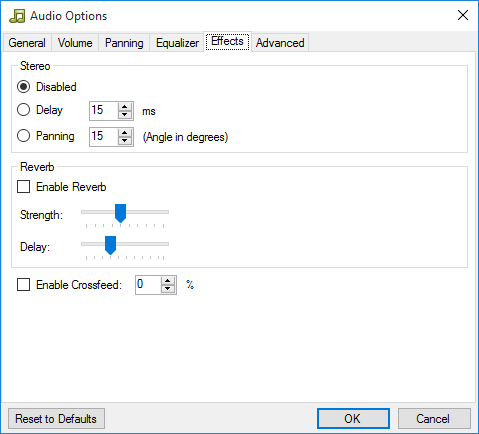
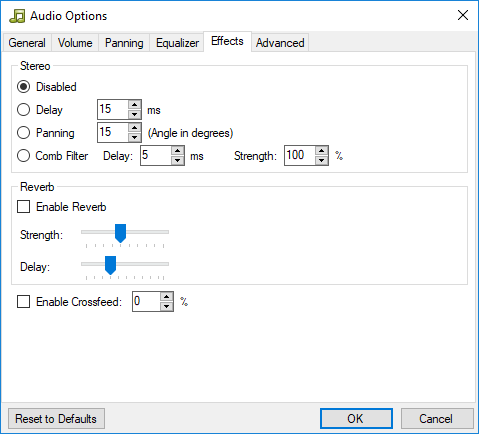
Docs: Updated documentation for 0.9.6

diff --git a/Docs/content/configuration/Preferences.md b/Docs/content/configuration/Preferences.md
@@ -75,7 +75,10 @@ Available shortcuts:
 * **FDS - Eject Disk**: Ejects the currently inserted disk
 * **VS - Insert Coin 1**: Inserts a coin in slot 1.
 * **VS - Insert Coin 2**: Inserts a coin in slot 2.
-* **VS - Service Button**: Press to go to the service menu (only in some VS games)
+* **VS - Insert Coin 3**: Inserts a coin in slot 1 of the second console (VS DualSystem only).
+* **VS - Insert Coin 4**: Inserts a coin in slot 2 of the second console (VS DualSystem only).
+* **VS - Service Button**: Press to activate the service button.
+* **VS - Service Button 2**: Press to activate the service button on the second console (VS DualSystem only).
 * **Input Barcode**: Inputs a barcode into the connected barcode reader device.
 * **Take Screenshot**: Takes a screenshot.
 * **Load Random Game**: Loads a random game from your game folder.
@@ -115,6 +118,41 @@ Available shortcuts:
 * **Load State from File**: Load the game's state from a user-specified file.
 * **Load Last Session**: Restores the game to the state it was the last time you stopped playing it.
 
+## FDS / VS System / NSF settings ##
+
+<div class="imgBox"><div>
+	<img src="/images/Preferences_Nsf.png" />
+	<span>FDS / VS / NSF settings</span>
+</div></div>
+
+### FDS Settings ###
+
+The FDS (Famicom Disk System) is a Famicom-specific add-on that allows games to be stored on special floppy disks. These options help simplify playing FDS games by allowing the emulation to fast-forward through load screens and automatically switch disk when needed.
+
+**Automatically insert disk 1 side A when starting FDS games**: By default, the FDS boots with no disk inserted in the drive.  This option makes it so the player does not need to manually insert disk 1, side A manually.
+
+**Automatically fast forward FDS games when disk or BIOS is loading**: FDS games contain a large number of load screens due to their data being stored on floppy drives.  Mesen needs to emulate this floppy drive's speed to ensure accurate emulation.  This option makes it so Mesen runs the emulation as fast as it can when a game is loading data from the disk, which greatly reduces the time spent on loading screens.
+
+**Automatically switch disks for FDS games**: FDS games are often split into multiple floppy disks, and each disk has 2 separate sides.  Due to this, FDS games often ask the player to change disk, or flip to the other side.  When this option is enabled, Mesen will attempt to detect when a game is asking for another disk and automatically insert it.
+
+### VS DualSystem Settings ###
+
+For VS DualSystem games, 2 separate consoles run at the same time, producing 2 different sets of audio and video. These options allow you to configure which audio/video streams you want to hear/see.
+
+**Show video for [...]**: Selects whether both screens should be shown, or just one of them.
+
+**Play audio for [...]**: Selects whether both audio streams should be played, or just one of them.
+
+
+### NSF Settings ###
+
+**Move to the next track after [x] milliseconds of silence**: If the currently playing track outputs no audio for over X milliseconds, the player will automatically move to the next track.  *Note: This only applies for `.nsf` files, not `.nsfe` files.*
+
+**Limit track run time to [x] seconds**: Once the current track has been playing for over X seconds, the player will automatically move to the next track.  *Note: This only applies for `.nsf` files, not `.nsfe` files.*
+
+**Enable APU IRQs for NSF files**: When enabled, APU IRQs will be allowed when NSF files are playing. Some NSF files do not properly disable APU IRQs in their initialization code, which will cause them to break if this option is enabled. *This option should not be enabled unless absolutely necessary.*
+
+
 ## Folders and File Associations ##
 
 <div class="imgBox"><div>
@@ -141,19 +179,13 @@ Available shortcuts:
 
 **Keep rewind data for the last [x] minutes**: The rewind feature in Mesen periodically takes save states and keeps them in memory to allow the emulator to rewind the game. These save states take a minimal amount of memory (roughly 1MB per minute). To limit the amount of memory that Mesen can use for rewind data, this configures the number of minutes that it is possible to rewind for.
 
-### FDS Settings ###
-
-The FDS (Famicom Disk System) is a Famicom-specific add-on that allows games to be stored on special floppy disks. These options help simplify playing FDS games by allowing the emulation to fast-forward through load screens and automatically switch disk when needed.
-
-**Automatically insert disk 1 side A when starting FDS games**: By default, the FDS boots with no disk inserted in the drive.  This option makes it so the player does not need to manually insert disk 1, side A manually.
-
-**Automatically fast forward FDS games when disk or BIOS is loading**: FDS games contain a large number of load screens due to their data being stored on floppy drives.  Mesen needs to emulate this floppy drive's speed to ensure accurate emulation.  This option makes it so Mesen runs the emulation as fast as it can when a game is loading data from the disk, which greatly reduces the time spent on loading screens.
-
-**Automatically switch disks for FDS games**: FDS games are often split into multiple floppy disks, and each disk has 2 separate sides.  Due to this, FDS games often ask the player to change disk, or flip to the other side.  When this option is enabled, Mesen will attempt to detect when a game is asking for another disk and automatically insert it.
-
-### UI Settings ###
+### Window Settings ###
 
 **Always display on top of other windows**: When enabled, Mesen's window will always be displayed above all other windows.
+
+**Do not allow the main window to be resized using the mouse**: When enabled, the main window can only be resized by changing the video scaling option.
+
+### UI Settings ###
 
 **Disable on-screen display (OSD)**: When enabled, all on-screen messages are disabled.
 

diff --git a/Docs/content/debugging/Debugger.md b/Docs/content/debugging/Debugger.md
@@ -292,10 +292,13 @@ For example, a mapper with 2x 8 KB + 1x 16 KB PRG banking is emulated as 4x 8 KB
 The `Show...` submenu contains a number of options to show/hide various elements on the UI.
 Specifically, the toolbar, CPU/PPU memory mappings, function/label lists, watch list, breakpoint list and the call stack window.
 
-Additionally, two special tooltip windows can be enabled here:
+### Tooltip Options ###
+
+A number of tooltip-related options are available here:
 
 * **Show Code Preview in Tooltips**: When enabled, label/address tooltips will now show a preview of the code at the target location.
 * **Show OP Code Info Tooltips**: When enabled, putting the mouse over an OP code will display a tooltip containing information about the OP code and which CPU flags are affected by it.
+* **Only show tooltips when Shift key is pressed**: When enabled, no tooltips will be shown unless the shift key is held down.
 
 ### Break Options ###
 
@@ -305,6 +308,7 @@ The `Break Options` submenu contains a number of options to configure under whic
 * **Break on unofficial opcodes**: Break the emulation whenever an unofficial opcode is about to execute.
 * **Break on BRK**: Break the emulation whenever a BRK instruction is about to execute.
 * **Break on CPU crash**: Break the emulation whenever an instruction that will cause the CPU to freeze is about to execute.
+* **Break on decayed OAM read**: Break whenever the code a read is performed on decayed OAM memory. **Note**: *This option is only available when the `Enable OAM RAM decay` option is enabled in the `Emulation Settings`.*
 * **Break on uninitialized memory read**: Break whenever the code reads from a memory address containing an uninitialized value. **Note**: *This option only works if the debugger has been opened since the last reset or power cycle.*
 * **Break when debugger is opened**: The emulation will break when you first open the debugger.
 * **Break on debugger focus**: Whenever the debugger's window gains focus (e.g by clicking on it), the emulation will break.
@@ -316,12 +320,19 @@ Additionally, you can configure whether or not the debugger window gets focused 
 
 These options configure which portions of the code is copied into the clipboard when copying code from the code window.
 
+### Layout Options ###
+
+* **Split View**: Displays 2 separate code windows side-by-side.
+* **Vertical Layout**: Moves the location of the label and function lists to improve space utilization on larger screens.
+ 
 ### Misc. Options ###
 
 * **Hide Pause Icon**: When enabled, the pause icon that is normally shown whenever execution is paused will be hidden.
 * **Draw Partial Frame**: When enabled, the emulator's main window will display the current partially-drawn frame instead of the last complete frame.
 * **Show previous frame behind current**: When enabled along with `Draw Partial Frame`, the previous frame's data will be shown behind the current frame.
-* **Refresh watch while running**: When enabled, the watch window will continuously refresh itself while the emulation is running (instead of only updating when the execution breaks)
+
+* **Keep active statement in the center**: When enabled, the code window will always put the current statement in the center whenever it updates (causing it to scroll on every step).  When disabled, the code window will only scroll the code when necessary.
+* **Refresh UI while running**: When enabled, the watch window and the CPU/PPU status will be updated continuously while the emulation is running (instead of only updating when the execution breaks)
 
 ## How To: Edit Code ##
 

diff --git a/Docs/content/debugging/DebuggerIntegration.md b/Docs/content/debugging/DebuggerIntegration.md
@@ -17,6 +17,13 @@ To import the .DBG file, use the **<kbd>File&rarr;Workspace&rarr;Import Labels</
 You can also enable the `Auto-load DBG/MLB files` to make Mesen load any .DBG file it finds next to the ROM whenever the debugger is opened or the power cycle button is used.  
 **Note:** For this option to work, the ROM file must have the same name as the DBG file (e.g `MyRom.nes` and `MyRom.dbg`) and be inside the same folder.
 
+### Source View ###
+
+When a .DBG file is loaded, 2 additional options appear in the code window's right-click menu:
+
+* **Switch to Source View**: This turns on `Source View` mode, which allows you to debug the game using the original code files, rather than the disassembly.  This can be used for both assembly and C projects.
+* **Show source code as comments**: When enabled, the debugger will show the original source code to the right of the disassembly, as comments.
+
 
 ## ASM6f ##
 
@@ -27,3 +34,8 @@ This fork contains 2 additional command line options that are useful when using 
 `-c` produces a .cdl (Code Data Logger) file which can be imported manually using the **<kbd>Tools&rarr;Code/Data Logger&rarr;Load CDL file</kbd>** command.   
 
 Additionally, you can use the `Auto-load DBG/MLB files` and `Auto-load CDL files` options in the **<kbd>File&rarr;Workspace</kbd>** menu to automatically load MLB and CDL files present in the same folder as the current ROM, with the same filename (e.g `MyRom.nes`, `MyRom.mlb`, `MyRom.cdl`). 
+
+
+## NESASM ##
+
+Mesen can also import the `.fns` symbol files that NESASM produces. However, due to limitations in the `.fns` format, these labels can only be reliably imported for games containing exactly 32kB of PRG ROM.  If you are creating a larger game, CC65/CA65 offers the best integration features at the moment.

diff --git a/Docs/content/configuration/Emulation.md b/Docs/content/configuration/Emulation.md
@@ -68,11 +68,11 @@ Overclocking can cause issues in some games. The safest way to overclock is to i
 	<span>Overclocking Options</span>
 </div></div>
 
-**Clock Rate Multiplier**: Use this to overclock or underclock the CPU -- this has the same effect as physically changing the clock speed on an actual NES.  Unless you enable the `Do not overclock APU` option below, the audio output will be affected by this.  ***This is not the recommended way to overclock the CPU.***
-
 **Additional scanlines before NMI**: Increases the number of scanlines in the PPU, *before* the NMI signal is triggered at the end of the visible frame. This effectively gives more time for games to perform calculations, which can reduce slowdowns in games. **This is the preferred option for overclocking.**
 
 **Additional scanlines after NMI**: Increases the number of scanlines in the PPU, *after* the NMI signal is triggered at the end of the visible frame. This effectively gives more time for games to perform calculations, which can reduce slowdowns in games. **This option is less compatible and should only be used if the `before NMI` variation does not work as expected.**
+
+**Clock Rate Multiplier**: Use this to overclock or underclock the CPU -- this has the same effect as physically changing the clock speed on an actual NES.  Unless you enable the `Do not overclock APU` option below, the audio output will be affected by this.  ***This is not the recommended way to overclock the CPU.***
 
 **Do not overclock APU**: When the `Clock Rate Multiplier` is not set to 100, the audio will be affected. When this option is enabled, the audio processor is not overclocked, which allows normal sound to be played despite the CPU being overclocked.
 

diff --git a/Docs/content/configuration/Audio.md b/Docs/content/configuration/Audio.md
@@ -19,7 +19,7 @@ chapter: false
 
 In addition, the **volume** and **panning** of each sound channel can be adjusted. For more control over the actual sound, the equalizer can be used to alter the relative strength of specific frequencies -- with work, this can be used to make the audio sound more like an actual NES would.
 
-A number of audio effects are available in the `Effects` tab -- the Stereo Delay effect, in particular, produces a relatively nice fake stereo effect.
+A number of audio effects are available in the `Effects` tab, including a few different fake stereo effects.
 
 <div class="clear"></div>
 
@@ -35,6 +35,8 @@ Unlike all the other options before it, the options in this section affect the w
 * **Mute ultrasonic frequencies on the triangle channel**: This option mutes the triangle channel under certain conditions, which prevents it from causing popping sounds.
 
 * **Reduce popping sounds on the DMC channel**: Similar to the previous option, but for the DMC channel -- this option prevents games from changing the output of the DMC channel too abruptly, which often causes popping sounds.
+
+* **Disable dynamic sample rate**: While a game is running, the video and audio typically slowly drift out of sync.  Mesen will automatically make adjustments to the audio sample rate while the game is running to keep them in sync. Disabling this option will typically cause sound issues such as crackling.
 
 * **Swap square channel duty cycles**: This option is to mimic some older NES clones that had incorrect sound output for both of the square channels.  It greatly alters the sound in some games, and shouldn't be enabled unless you want this behavior.
 

diff --git a/Docs/content/apireference/Changelog.md b/Docs/content/apireference/Changelog.md
@@ -17,12 +17,11 @@ chapter: false
 * The end address parameter for <kbd>[addMemoryCallback](/apireference/callbacks.html#addmemorycallback)</kbd> and <kbd>[removeMemoryCallback](/apireference/callbacks.html#removememorycallback)</kbd> is now optional.
 * The <kbd>[drawRectangle](/apireference/drawing.html#drawrectangle)</kbd> function now accepts negative height/width values.
 * Added a new *delay* parameter to  <kbd>[drawRectangle](/apireference/drawing.html#drawrectangle)</kbd>, <kbd>[drawLine](/apireference/drawing.html#drawline)</kbd>, <kbd>[drawString](/apireference/drawing.html#drawstring)</kbd> and  <kbd>[drawPixel](/apireference/drawing.html#drawpixel)</kbd>.
-* The <kbd>[endFrame](/apireference/enums.html#eventtype)</kbd> event now triggers on scanline 240 instead of scanline 241.
 
-### Bug Fixes ###
+### Breaking Changes ###
  
 * <kbd>[addMemoryCallback](/apireference/callbacks.html#addmemorycallback)</kbd> and <kbd>[removeMemoryCallback](/apireference/callbacks.html#removememorycallback)</kbd> no longer exclude the end address from the range.
-
+* The <kbd>[endFrame](/apireference/enums.html#eventtype)</kbd> event now triggers on scanline 240 instead of scanline 241.
 
 ## Changes between 0.9.4 and 0.9.5 ##
 

diff --git a/Docs/content/debugging/TextHooker.md b/Docs/content/debugging/TextHooker.md
@@ -1,0 +1,29 @@
+---
+title: Text Hooker
+weight: 16
+chapter: false
+---
+
+## Text Hooker ##
+
+<div class="imgBox"><div>
+	<img src="/images/TextHooker.png" />
+	<span>Text Hooker</span>
+</div></div>
+
+The text hooker's main window scans the current screen for recognized characters and outputs the equivalent text on the right.  
+
+For games that split the screen, you can use the `When emulation is running, show PPU data at scanline` option at the bottom to capture the portion of the screen that you need.  
+
+To configure character mappings, see the `Character Mappings` section below.
+
+## Character Mappings ##
+
+<div class="imgBox"><div>
+	<img src="/images/TextHookerCharacterMappings.png" />
+	<span>Text Hooker - Character Mappings</span>
+</div></div>
+
+This tab allows you to configure the mappings between CHR tiles and text characters. These mappings are based on the shape of the tile and are shared between all games. A number of mappings are built into Mesen, so some characters may already be recognized automatically.  
+
+When you want to add new mappings, simply edit the textbox below the tile you want to configure.

diff --git a/Docs/content/hdpacks/_index.md b/Docs/content/hdpacks/_index.md
@@ -8,6 +8,18 @@ HD Packs make it possible to replace a game's graphics and audio with high defin
 
 ## Using HD packs ##
 
+### Installing HD Packs ###
+
+To install an HD Pack:
+
+* First, load the game for which you want to install the HD Pack.
+* Then, click on the **<kbd>Tools&rarr;Install HD Pack</kbd>** menu and select the `.zip` file that contains the HD Pack you want to install.
+* A message will be shown indicating whether the installation succeeded or failed.
+
+### Manual installation ###
+
+If the HD Pack installation tool fails to install the HD Pack, you can try to install it manually with these instructions:  
+
 To use HD packs, first make sure to turn on the [Enable HDNes HD Packs](/configuration/video.html#general-options) option.  
 To install a HD Pack, you should extract it in a subfolder inside the `HdPacks` folder in Mesen's data folder. You can open this folder by clicking on the `Open Mesen Folder` button in the [Preferences](/configuration/preferences.html#general-options) window.
 The subfolder should have the same name as the rom file itself.

diff --git a/Docs/content/debugging/PpuViewer.md b/Docs/content/debugging/PpuViewer.md
@@ -54,6 +54,7 @@ You can <kbd>**right-click**</kbd> on a tile to copy the tile's information (bas
 * **Highlight**: This option allows tiles to be highlighted/dimmed based on the CDL file's current data.  This makes it possible to highlight/dim tiles that have never been drawn by the PPU, or vice versa.  *This option is only available for CHR ROM games*.
 * **Display as 16x8 sprites**: When enabled, changes the display order of the tiles to make it easier to visualize 16x8 sprites.
 * **Display tiles using their last known palette**: When enabled, any tile that has appeared in nametable memory since the debugger was opened will be shown using their last known palette (this overrides the palette selection dropdown for those tiles)
+* **Show single color tiles using grayscale palette**: When enabled, any tile that contains a single color will be displayed using the grayscale palette instead (this overrides the palette selection dropdown for those tiles)
 
 ### Editing Tiles ###
 

diff --git a/Docs/content/debugging/_index.md b/Docs/content/debugging/_index.md
@@ -14,6 +14,7 @@ The debugging capabilities of Mesen are split across a number of different tools
 [Memory Tools](/debugging/memorytools.html): Contains a hex editor and performance profiler.      
 [PPU Viewer](/debugging/ppuviewer.html):  Displays information on the nametables, sprites, CHR banks and palette. Contains a CHR graphic editor and a palette editor.    
 [Script Window](/debugging/scriptwindow.html):  Allows the execution of Lua scripts, which can communicate with the emulation via an API.   
+[Text Hooker](/debugging/texthooker.html):  Converts text shown on the screen into a text string (useful when trying to translate games.)  
 [Trace Logger](/debugging/tracelogger.html):  View or log to a file the execution trace of the CPU and PPU.
 
 Additionally, some other smaller features are available from the main debugger window.  e.g:

diff --git a/Docs/content/tools/_index.md b/Docs/content/tools/_index.md
@@ -62,6 +62,20 @@ When you start recording, a configuration dialog is shown that allows you to sel
 
 To play a movie file, select it via the **<kbd>Tools&rarr;Movies&rarr;Play</kbd>** command.
 
+## History Viewer ##
+
+<div class="imgBox"><div>
+	<img src="/images/HistoryViewer.png" />
+	<span>History Viewer</span>
+</div></div>
+
+The history viewer allows you to replay (in a video player) any gameplay since the last time you power cycled or loaded a game.  
+You can start playback at any point in time, and instantly seek to any point in time, too.  
+
+To resume gameplay from the history viewer's current position, select **<kbd>File&rarr;Resume Gameplay</kbd>**
+
+To export a movie (`.mmo` file) of your gameplay, select **<kbd>File&rarr;Export Movie</kbd>**
+
 ## Cheats ##
 
 <div class="imgBox"><div>

diff --git a/Docs/content/debugging/EventViewer.md b/Docs/content/debugging/EventViewer.md
@@ -15,6 +15,8 @@ The Event Viewer's PPU view allows you to visually check the timing at which var
 
 The colors can be configured and it's also possible to define [breakpoints](/debugging/debugger.html#breakpoint-configuration) as marks to be shown on the Event Viewer. This is done by enabling a breakpoint's `Mark on Event Viewer` option.  This allows the event viewer to be used to display virtually any special event that needs to be tracked.
 
+When the `Show previous frame's events` option is enabled, all events for the last full frame (e.g the last 261 scanlines for NTSC) will be shown. Otherwise, only events that have occurred since the last pre-render scanline (scanline -1) will be shown.
+
 ## List View ##
 
 <div class="imgBox"><div>
